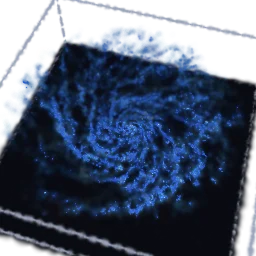
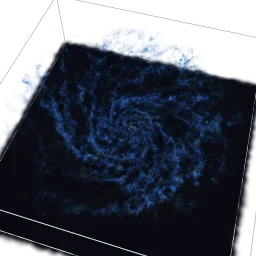
Science: galaxy r3, crisp box edges and each particle at its kernel's true spread
Claude-Session: https://claude.ai/code/session_0123CmvL6HtpCFKN5D1wm4jX

diff --git a/src/packs/science.js b/src/packs/science.js
@@ -7,7 +7,7 @@
 //                       Gaussian as wide as its localization precision
 //                       (src/science/smlm.js)
 //   galaxy-box          each gas particle of a FIRE-2 galaxy is a Gaussian of
-//                       about half its smoothing length (an approximation)
+//                       the same spread as its smoothing kernel (an approximation)
 //
 // The toys bring their own GPU program (src/science/field.js, labs only): the
 // jiggle, the magnifier and the Gaussians' exact shapes.
@@ -788,6 +788,7 @@ export const GALAXY_SAMPLE = {
 };
 
 const GAL = { data: null, info: null, focus: focusState(), toy: null };
+export const KERNEL_SIGMA = 0.274; // the cubic spline's σ over its support radius
 const GAL_ZOOM = 8; // the tap's magnification
 export const galaxyState = () => (GAL.info ? { ...GAL.info } : null);
 // The gas's big see-through splats cost the most to draw (they overlap), so
@@ -945,29 +946,41 @@ const GALAXY = {
         weight: 0.5,
         part: sciPart(SCI_TYPE.plain),
       });
+    }
+    // Its twelve edges: thin lines of splats stretched along each edge, so
+    // they stay crisp.
+    if (o.box !== false) {
+      const SEG = 80;
+      const edges = [];
       for (const axis of [0, 1, 2]) {
-        const edge = evenCylinder(0.05, 0.05, 2 * size[axis], false);
         const others = [0, 1, 2].filter((x) => x !== axis);
         for (const a of [-1, 1])
-          for (const b of [-1, 1]) {
-            const p = [0, 0, 0];
-            p[others[0]] = a * size[others[0]];
-            p[others[1]] = b * size[others[1]];
-            const dir = [0, 0, 0];
-            dir[axis] = 1;
-            k.add(edge, {
-              pos: p,
-              quat: quatFromTo([0, 1, 0], dir),
-              even: true,
-              color: "#9aa3b8",
-              jitter: 0,
-              opacity: 0.9,
-              flat: 0.4,
-              weight: 3,
-              part: sciPart(SCI_TYPE.plain),
-            });
-          }
+          for (const b of [-1, 1])
+            for (let i = 0; i < SEG; i++) {
+              const p = [0, 0, 0];
+              p[others[0]] = a * size[others[0]];
+              p[others[1]] = b * size[others[1]];
+              p[axis] = -size[axis] + ((i + 0.5) / SEG) * 2 * size[axis];
+              const dir = [0, 0, 0];
+              dir[axis] = 1;
+              edges.push({ p, dir, len: (2 * size[axis]) / SEG });
+            }
       }
+      k.cloud({ count: (edges.length * 160000) / k.count, jitter: 0 }, (_r, j) => {
+        const e = edges[j];
+        if (!e) return null;
+        const base = k.baseSize || 0.01;
+        const across = 0.03 / 0.7; // about 0.03 kpc across
+        return {
+          p: e.p,
+          dir: e.dir,
+          size: across / base,
+          stretch: (0.8 * e.len) / across,
+          color: "#c4ccdc",
+          opacity: 1,
+          part: sciPart(SCI_TYPE.plain),
+        };
+      });
     }
     k.reach([half, hy, half]);
     k.reach([-half, -hy, -half]);
@@ -986,9 +999,11 @@ const GALAXY = {
       const w = widenOf(i);
       const h = G.h(i) * w;
       const logT = G.logT(i);
-      // A Gaussian of about half the smoothing length (the simulation's
-      // kernel isn't a Gaussian; this is the look, not the physics).
-      const sigma = 0.5 * h;
+      // The Gaussian with the same spread as the simulation's kernel: FIRE's
+      // cubic spline, whose smoothing length h is its support radius, has a
+      // standard deviation of 0.274 h along each axis (it isn't a Gaussian;
+      // this is the look, not the physics).
+      const sigma = KERNEL_SIGMA * h;
       const base = k.baseSize || 0.01;
       // Denser gas (smaller h) is more opaque: the column through a
       // particle goes as its mass over h², and the masses are nearly equal.

diff --git a/src/toy-help.js b/src/toy-help.js
@@ -1530,7 +1530,7 @@ export const TOY_HELP = {
   "galaxy-box": {
     howTo: "Tap the gas to zoom in; tap again to zoom out.",
     about:
-      "Galaxy simulations follow gas as millions of particles, each with a bit of mass and a smoothing length, the size its gas is spread over. This is the gas of a Milky Way–mass galaxy today from the FIRE-2 simulations (CC BY 4.0), a subset cut to a box round it. Each particle is a Gaussian about half its smoothing length wide, colored by temperature (cold blue, hot orange and red) and brighter where denser, so the spiral arms stand out.\n\nTap to zoom into the gas; Only the cold gas peels away the hot. This is an approximation: the simulation's kernel isn't a Gaussian, and blended splats aren't the column density that tools like SPLASH and yt compute. It shows the shape of the gas, not measurements.",
+      "Galaxy simulations follow gas as millions of particles, each with a bit of mass and a smoothing length, the size its gas is spread over. This is the gas of a Milky Way–mass galaxy today from the FIRE-2 simulations (CC BY 4.0), a subset cut to a box round it. Each particle is the Gaussian with the same spread as the simulation's smoothing kernel, colored by temperature (cold blue, hot orange and red) and brighter where denser, so the spiral arms stand out.\n\nTap to zoom into the gas; Only the cold gas peels away the hot. This is an approximation: the simulation's kernel isn't a Gaussian, and blended splats aren't the column density that tools like SPLASH and yt compute. It shows the shape of the gas, not measurements.",
   },
 
   // ---- Fluid lab (lane Fluids) ---------------------------------------------------------

diff --git a/docs/TOY-PLAN.md b/docs/TOY-PLAN.md
@@ -2456,10 +2456,10 @@ Proposals below are suggestions; the owner may change them.
 - **Galaxy in a box** (`galaxy-box`). Now: tap: Zoom in or out. Plan: keep.
   - Owner: The owner's question of September 29, 2026 (can splats be a real science tool?) and his
     answer "Science yes" (lane Science; labs only).
-  - Effect: The gas of the FIRE-2 Milky Way–mass galaxy m12i today, each particle a Gaussian of
-    about half its smoothing length, colored by temperature and brighter where denser, in a box with
-    a dark floor. The tap zooms about 8 times into the gas you tap (2.2 s); a second tap zooms out.
-    Only the cold gas peels the hot gas away.
+  - Effect: The gas of the FIRE-2 Milky Way–mass galaxy m12i today, each particle the Gaussian with
+    the same spread as its smoothing kernel (0.27 of its smoothing length), colored by temperature
+    and brighter where denser, in a box with a dark floor. The tap zooms about 8 times into the gas
+    you tap (2.2 s); a second tap zooms out. Only the cold gas peels the hot gas away.
   - Improved: Science: tools/sci-galaxy.mjs (jsfive) cuts 300,000 of the 2.4 million gas particles
     in a 40 × 12 × 40 kpc box round the galaxy from the CC BY 4.0 snapshot (FlatHUB), turns the disk
     face up and works out each temperature; the toy draws them approximately (not a column-density

diff --git a/docs/handoff/Science.md b/docs/handoff/Science.md
@@ -194,6 +194,12 @@ Model: Opus 5.5 (claude-opus-5-5), default effort.
   nuclear-pore record (gp210) was tried and dropped: it has no precision column, and the 20 nm
   default width smears each pore's ring.
 
+- **Galaxy r3** (the owner's note on `sci-galaxy-r2`: sharper box edges, and the spiral sharper if
+  possible): the edges are lines of splats stretched along them, and each particle is now the
+  Gaussian with the same spread as FIRE's cubic-spline kernel (σ = 0.274 h per axis, h being the
+  kernel's support radius; before, 0.5 h). Overview 226 → 672, zoomed 12 → 42. `sci-galaxy-r3` is on
+  page 2 and replaces `sci-galaxy-r2`.
+
 ## Known issues
 
 - Frame rates on a real phone are unmeasured (no GPU here); the galaxy is the heaviest (overdraw).
